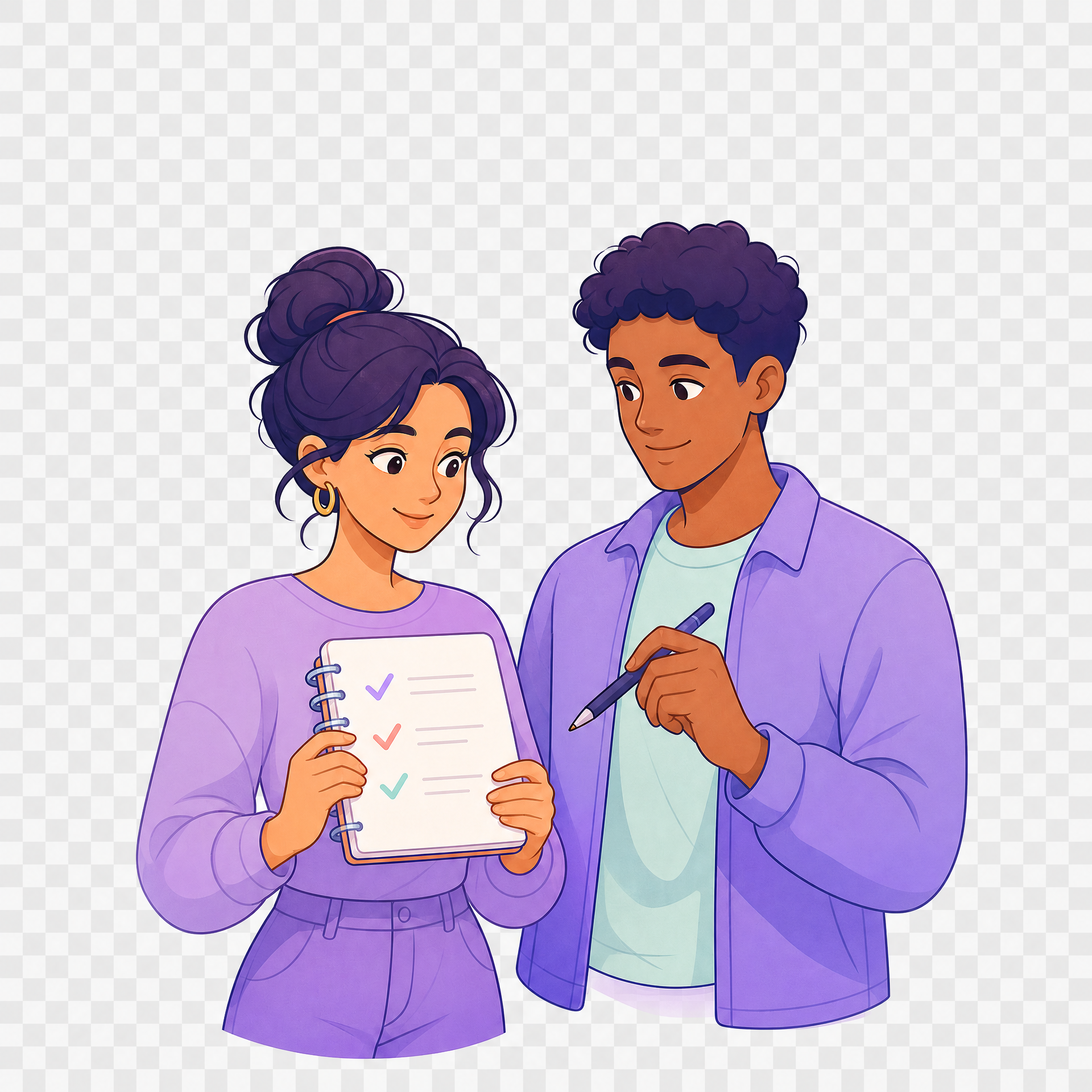
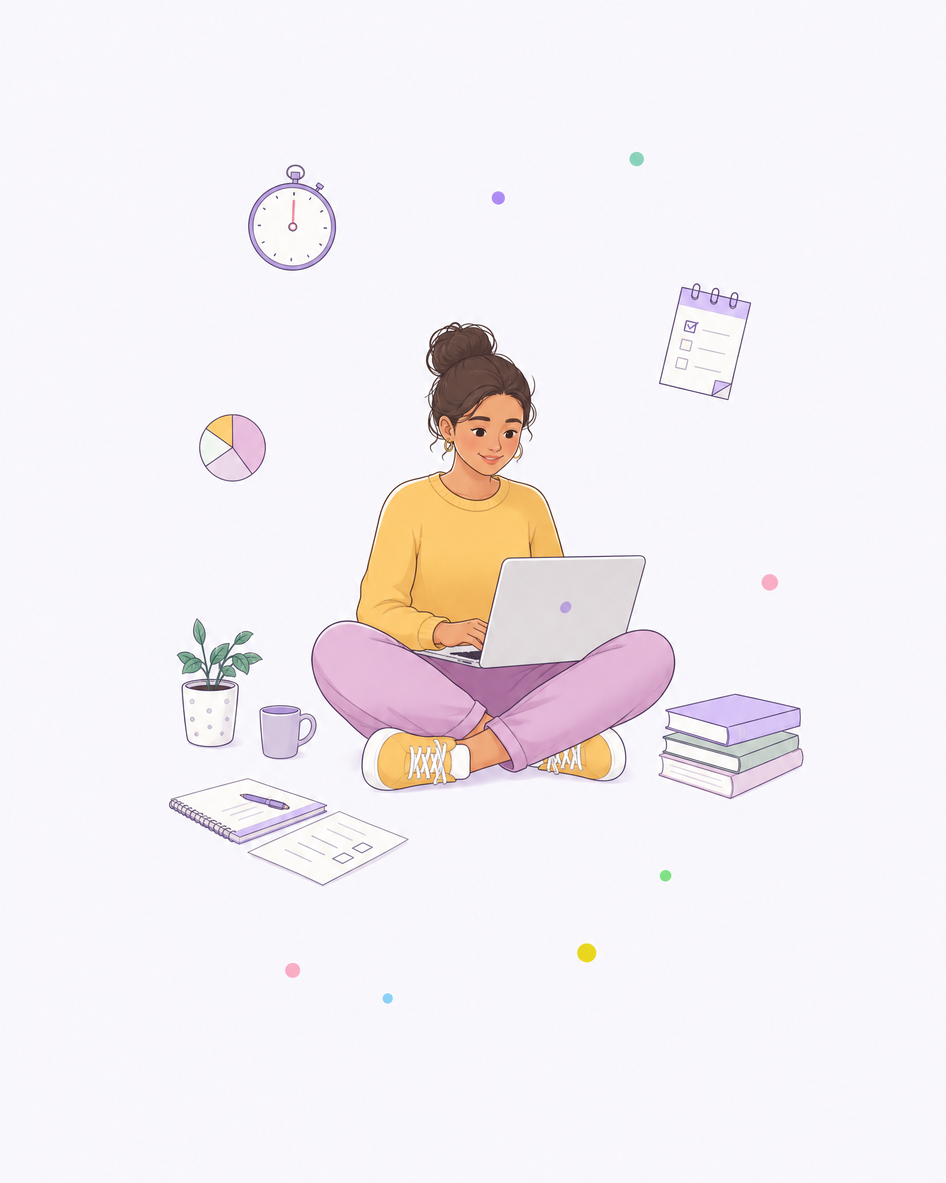
fix: integrate onboarding illustration without frame

diff --git a/lib/screens/onboarding_screen.dart b/lib/screens/onboarding_screen.dart
@@ -258,7 +258,7 @@ class _OnboardingScreenState extends State<OnboardingScreen>
           child: Column(
             mainAxisAlignment: MainAxisAlignment.center,
             children: [
-              // Illustration d’usage de l’application
+              // Illustration intégrée directement dans le fond Figma
               ScaleTransition(
                 scale: _logoScale,
                 child: AnimatedBuilder(
@@ -266,29 +266,11 @@ class _OnboardingScreenState extends State<OnboardingScreen>
                   builder: (context, _) {
                     return Transform.scale(
                       scale: _breathingScale.value,
-                      child: Container(
-                        width: 244,
-                        height: 210,
-                        padding: const EdgeInsets.all(8),
-                        decoration: BoxDecoration(
-                          color: AppColors.purpleSoft,
-                          borderRadius: BorderRadius.circular(32),
-                          border: Border.all(
-                            color: AppColors.purple.withValues(alpha: 0.16),
-                            width: 1.5,
-                          ),
-                          boxShadow: [
-                            BoxShadow(
-                              color: AppColors.purple.withValues(alpha: 0.12),
-                              blurRadius: 24,
-                              offset: const Offset(0, 10),
-                            ),
-                          ],
-                        ),
-                        child: Image.asset(
-                          'assets/onboarding_illustration.png',
-                          fit: BoxFit.contain,
-                        ),
+                      child: Image.asset(
+                        'assets/onboarding_illustration.png',
+                        width: 270,
+                        height: 276,
+                        fit: BoxFit.cover,
                       ),
                     );
                   },
